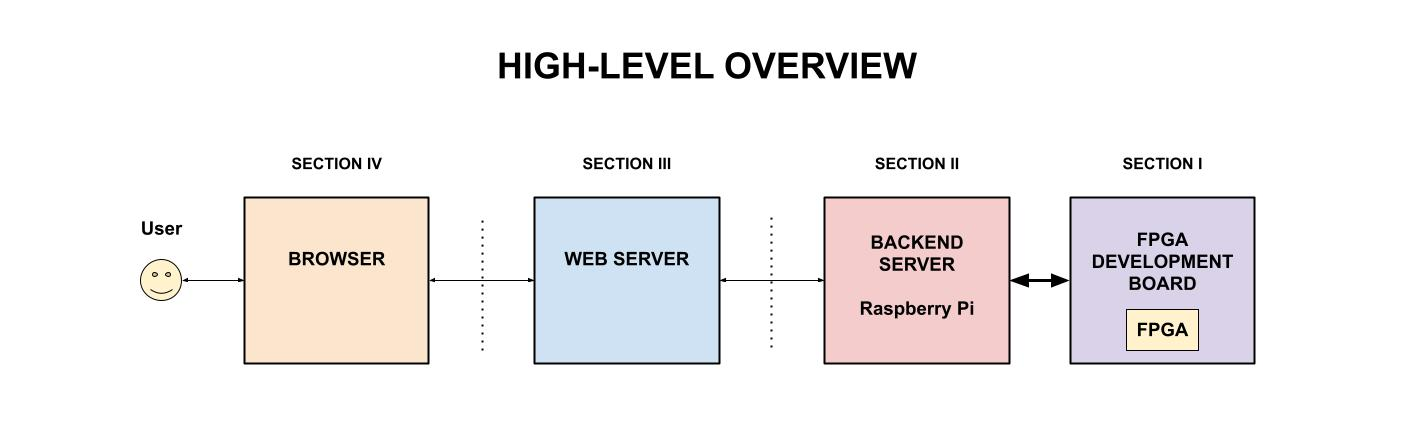
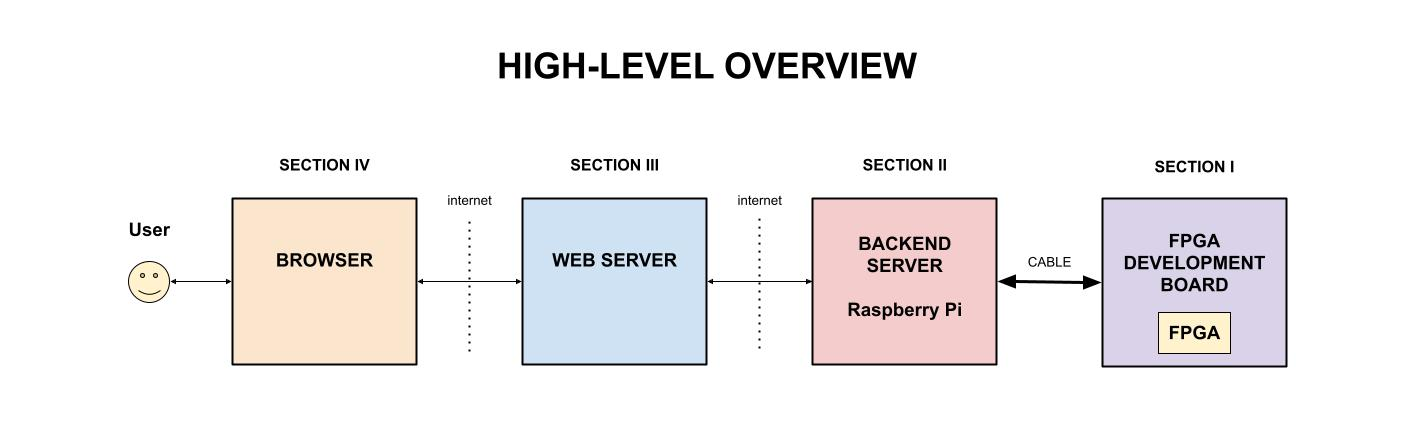
added browser section and updated pics

diff --git a/control-an-fpga/css/containers.css b/control-an-fpga/css/containers.css
@@ -85,33 +85,7 @@
 }
 
 /* #### COMMENT CONTAINER ##################################### */
-
-.comment_container {
-    text-align: center;
-    margin: 0 auto;
-    height: 100%;
-    width:100%;
-    padding-top: 15px;
-    padding-bottom: 1px;
-    padding-left: 20px;
-    padding-right: 20px;
-    margin-top: 40px;
-    margin-bottom: 40px;
-    background: rgb(255,255,255);
-    background: linear-gradient(90deg, rgba(255,255,255,1) 0%, rgba(25,80,158,1) 50%, rgba(255,255,255,1) 100%);
-}
-
-.comment_container h3 {
-    color: #ffffff;
-}
-
-.comment_container p {
-    color: #ffffff;
-}
-
-.comment_container a:visited {
-    color: #9ebcff;
-}
+/* Part of Jeff's main site */
 
 /* #### CODE CONTAINER ######################################## */
 

diff --git a/control-an-fpga/index.php b/control-an-fpga/index.php
@@ -66,7 +66,7 @@
                 JEFFRY A. DECOLA  </a> </h1>
 
             <h2> <a href="https://jeffdecola.com/control-an-fpga/index.php">
-                CONTROL AN FPGA VIA RASPI and WEB SERVER </a> </h2>
+                CONTROL AN FPGA VIA A RASPI AND WEB SERVER </a> </h2>
             
             <a href="https://github.com/JeffDeCola/control-fpga-via-raspi-and-webserver">
                 GITHUB REPO </a>
@@ -88,11 +88,11 @@
 
             <div class="title_container">
 
-                <h2> 8-BIT MICROPROCESSOR </h2>
-                <p> I burned my programable-8-bit-microprocessor to an FPGA development board and you can control it below.  </p>
+                <h2> CONTROL AN 8-BIT MICROPROCESSOR </h2>
+                <p> I burned a programable-8-bit-microprocessor I designed to an FPGA development board and you can control it below.  </p>
                 <p> 
                     <a href="https://github.com/JeffDeCola/control-fpga-via-raspi-and-webserver"> Code </a>
-                    written in php, go and verilog
+                    written in php, js, go and verilog
                 </p>                            
 
             </div>
